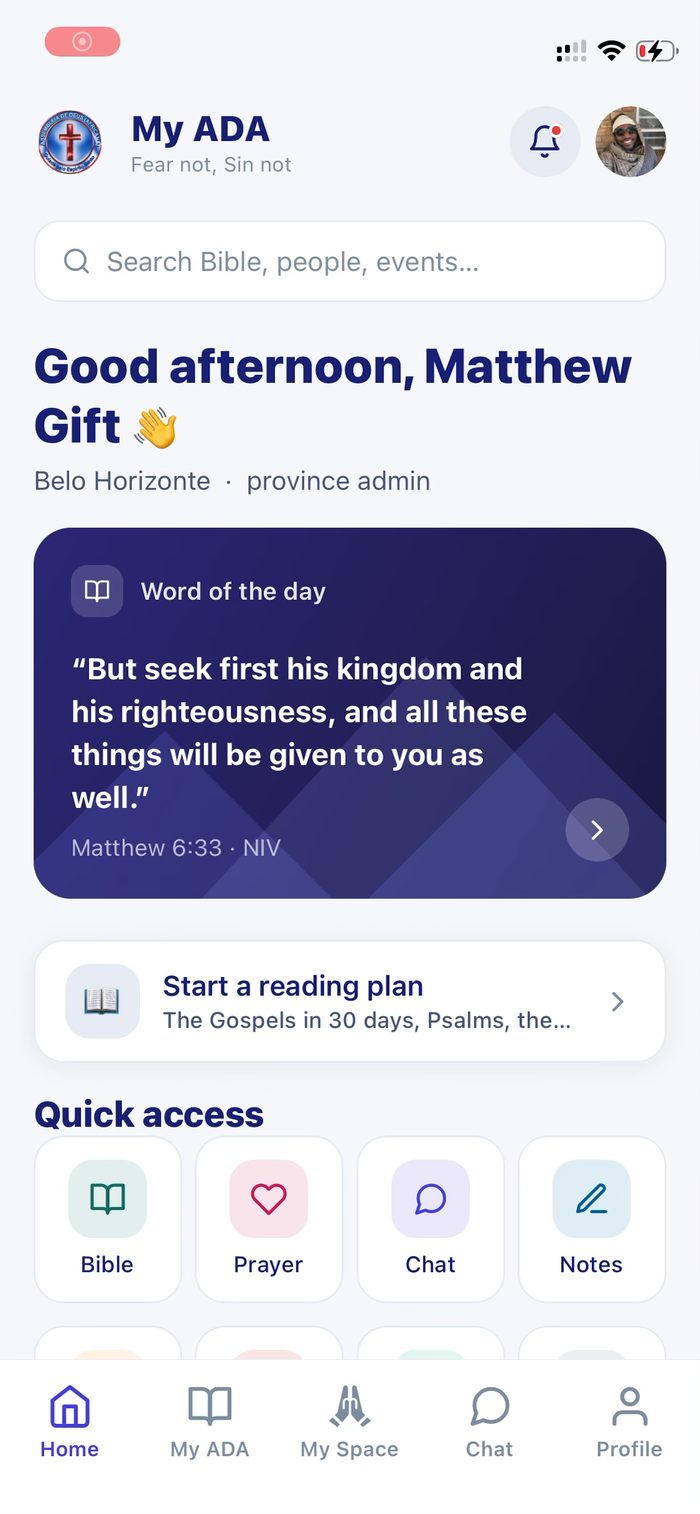
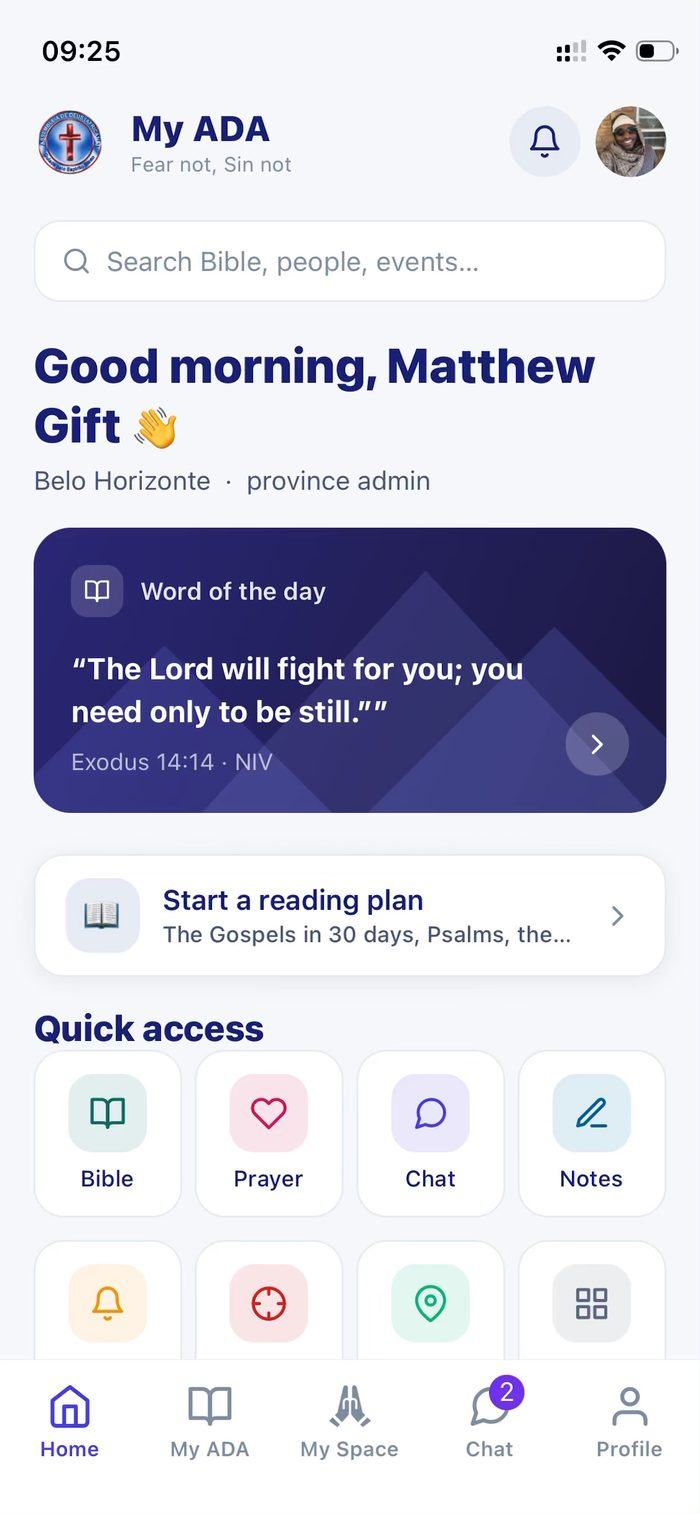
My ADA case study: fifteen screens across home, Apostle's Update, Bible, live TV, church finder, community, My Space and profile

diff --git a/case-studies/my-ada.html b/case-studies/my-ada.html
@@ -92,7 +92,11 @@
         </div>
         <div class="feature">
           <h4>Giving, events and church life</h4>
-          <p>Give by M-Pesa or declare for the treasurer; events and Big Sundays with RSVP; attendance by QR; find the nearest church on a live map; live TV with picture-in-picture; notes with a handwriting pad; the ACBF business directory.</p>
+          <p>Give by M-Pesa or declare for the treasurer; events and Big Sundays with RSVP; attendance by QR; find the nearest church on a live map; live TV with picture-in-picture; notes with a handwriting pad; polls; church resources and publications; the ACBF business directory.</p>
+        </div>
+        <div class="feature">
+          <h4>My Space and a profile that is yours</h4>
+          <p>A personal dashboard, digital ID, receipts, notifications, notes, meetings and events; requests for counselling, media, transfers and access. Light, dark and black themes, your own accent colour, Face ID or PIN app lock, and a privacy switch for being found by name.</p>
         </div>
       </div>
 
@@ -132,8 +136,8 @@
     <div class="wrap">
       <h2>Screens</h2>
       <p class="sec-sub" style="margin-bottom:24px">
-        Captured on a live production phone. The member list is cropped to the signed-in user, and the
-        commenter below is a stand-in name.
+        Captured on a live production phone. Other members' names and photos are blurred or replaced
+        with stand-in names; only the structure and the signed-in user remain.
       </p>
       <div class="shots phone">
         <figure class="shot-item">
@@ -141,20 +145,60 @@
           <figcaption>Home — word of the day, reading plan, quick access</figcaption>
         </figure>
         <figure class="shot-item">
-          <div class="shot filled"><img src="../assets/shots/myada-bible.jpg" alt="Bible reader showing Psalm 56 in NIV with the Portuguese version read alongside, and verse actions" loading="lazy" width="700" height="1515"></div>
-          <figcaption>Bible — NIV read alongside Portuguese, verse actions</figcaption>
+          <div class="shot filled"><img src="../assets/shots/myada-home-actions.jpg" alt="Home continued: Watch Ezekiel TV live, Sign the register, Announce a Special Event, unread messages and upcoming events" loading="lazy" width="700" height="1514"></div>
+          <figcaption>Home — live TV, sign the register, what needs attention</figcaption>
         </figure>
         <figure class="shot-item">
-          <div class="shot filled"><img src="../assets/shots/myada-group.jpg" alt="Group info for the national chat: 399 members, Search, Media and Mute actions, Members / Media / Settings tabs" loading="lazy" width="700" height="779"></div>
-          <figcaption>Group info — 399 members, quick actions, tabs</figcaption>
+          <div class="shot filled"><img src="../assets/shots/myada-feed.jpg" alt="Apostle's Update channel feed with a photo, the week's letter and reactions" loading="lazy" width="700" height="1514"></div>
+          <figcaption>Apostle's Update — a channel, not a flip book</figcaption>
+        </figure>
+        <figure class="shot-item">
+          <div class="shot filled"><img src="../assets/shots/myada-bible.jpg" alt="Bible reader: NIV, Exodus 14 with verse 14 highlighted, search, bookmarks and reading plan controls" loading="lazy" width="700" height="1514"></div>
+          <figcaption>Bible — versions, search, bookmarks, highlights</figcaption>
+        </figure>
+        <figure class="shot-item">
+          <div class="shot filled"><img src="../assets/shots/myada-live-tv.jpg" alt="Ezekiel TV playing live with picture-in-picture and full-screen options" loading="lazy" width="700" height="1514"></div>
+          <figcaption>Live TV — picture-in-picture, keeps playing while you read</figcaption>
+        </figure>
+        <figure class="shot-item">
+          <div class="shot filled"><img src="../assets/shots/myada-find-church.jpg" alt="Find a church near me: map of Mozambique with pins and a list of 1,508 assemblies sorted by distance" loading="lazy" width="700" height="1514"></div>
+          <figcaption>Find a church — 1,508 assemblies sorted by distance</figcaption>
+        </figure>
+        <figure class="shot-item">
+          <div class="shot filled"><img src="../assets/shots/myada-menu.jpg" alt="My ADA menu: Apostle's Update, Bible, Prayer & Testimony, Church feed, Channels" loading="lazy" width="700" height="1514"></div>
+          <figcaption>My ADA — read and pray, church life</figcaption>
+        </figure>
+        <figure class="shot-item">
+          <div class="shot filled"><img src="../assets/shots/myada-connect.jpg" alt="Connect with a believer: search by name, handle, phone or e-mail, with Ask to connect and Message" loading="lazy" width="700" height="1514"></div>
+          <figcaption>Connect with a believer — found by name, accepted before chat</figcaption>
+        </figure>
+        <figure class="shot-item">
+          <div class="shot filled"><img src="../assets/shots/myada-chats.jpg" alt="Chat list with national, ministry and assembly groups and direct messages (names blurred)" loading="lazy" width="700" height="1514"></div>
+          <figcaption>Chats — national, ministry, assembly and direct</figcaption>
+        </figure>
+        <figure class="shot-item">
+          <div class="shot filled"><img src="../assets/shots/myada-group.jpg" alt="Group info for the national chat: 399 members, Search, Media and Mute actions, Members / Media / Settings tabs" loading="lazy" width="700" height="1514"></div>
+          <figcaption>Group info — quick actions, Members / Media / Settings</figcaption>
         </figure>
         <figure class="shot-item">
           <div class="shot filled"><img src="../assets/shots/myada-video.jpg" alt="Full-screen video in the media viewer with play, skip, thumbnail strip, Share and Show in chat" loading="lazy" width="700" height="1514"></div>
           <figcaption>Media viewer — full-screen video, share, show in chat</figcaption>
         </figure>
         <figure class="shot-item">
-          <div class="shot filled"><img src="../assets/shots/myada-comments.jpg" alt="Comments sheet on an Apostle's Update, in Portuguese, with one comment and a composer" loading="lazy" width="700" height="871"></div>
-          <figcaption>Apostle's Update — comments sheet, in Portuguese</figcaption>
+          <div class="shot filled"><img src="../assets/shots/myada-comments.jpg" alt="Comments sheet on an Apostle's Update, in Portuguese" loading="lazy" width="700" height="1514"></div>
+          <figcaption>Apostle's Update — comments, in Portuguese</figcaption>
+        </figure>
+        <figure class="shot-item">
+          <div class="shot filled"><img src="../assets/shots/myada-space.jpg" alt="My Space: personal dashboard, profile and belonging, receipts, notifications, notes, meetings" loading="lazy" width="700" height="1514"></div>
+          <figcaption>My Space — your record, diary, requests and care</figcaption>
+        </figure>
+        <figure class="shot-item">
+          <div class="shot filled"><img src="../assets/shots/myada-profile.jpg" alt="Profile with digital ID, appearance (light, dark, black), accent colour, language" loading="lazy" width="700" height="1514"></div>
+          <figcaption>Profile — digital ID, appearance, your colour</figcaption>
+        </figure>
+        <figure class="shot-item">
+          <div class="shot filled"><img src="../assets/shots/myada-security.jpg" alt="Security settings: app lock with Face ID, app PIN, change password, invite and share" loading="lazy" width="700" height="1514"></div>
+          <figcaption>Security — Face ID app lock, PIN, share and rate</figcaption>
         </figure>
       </div>
     </div>
